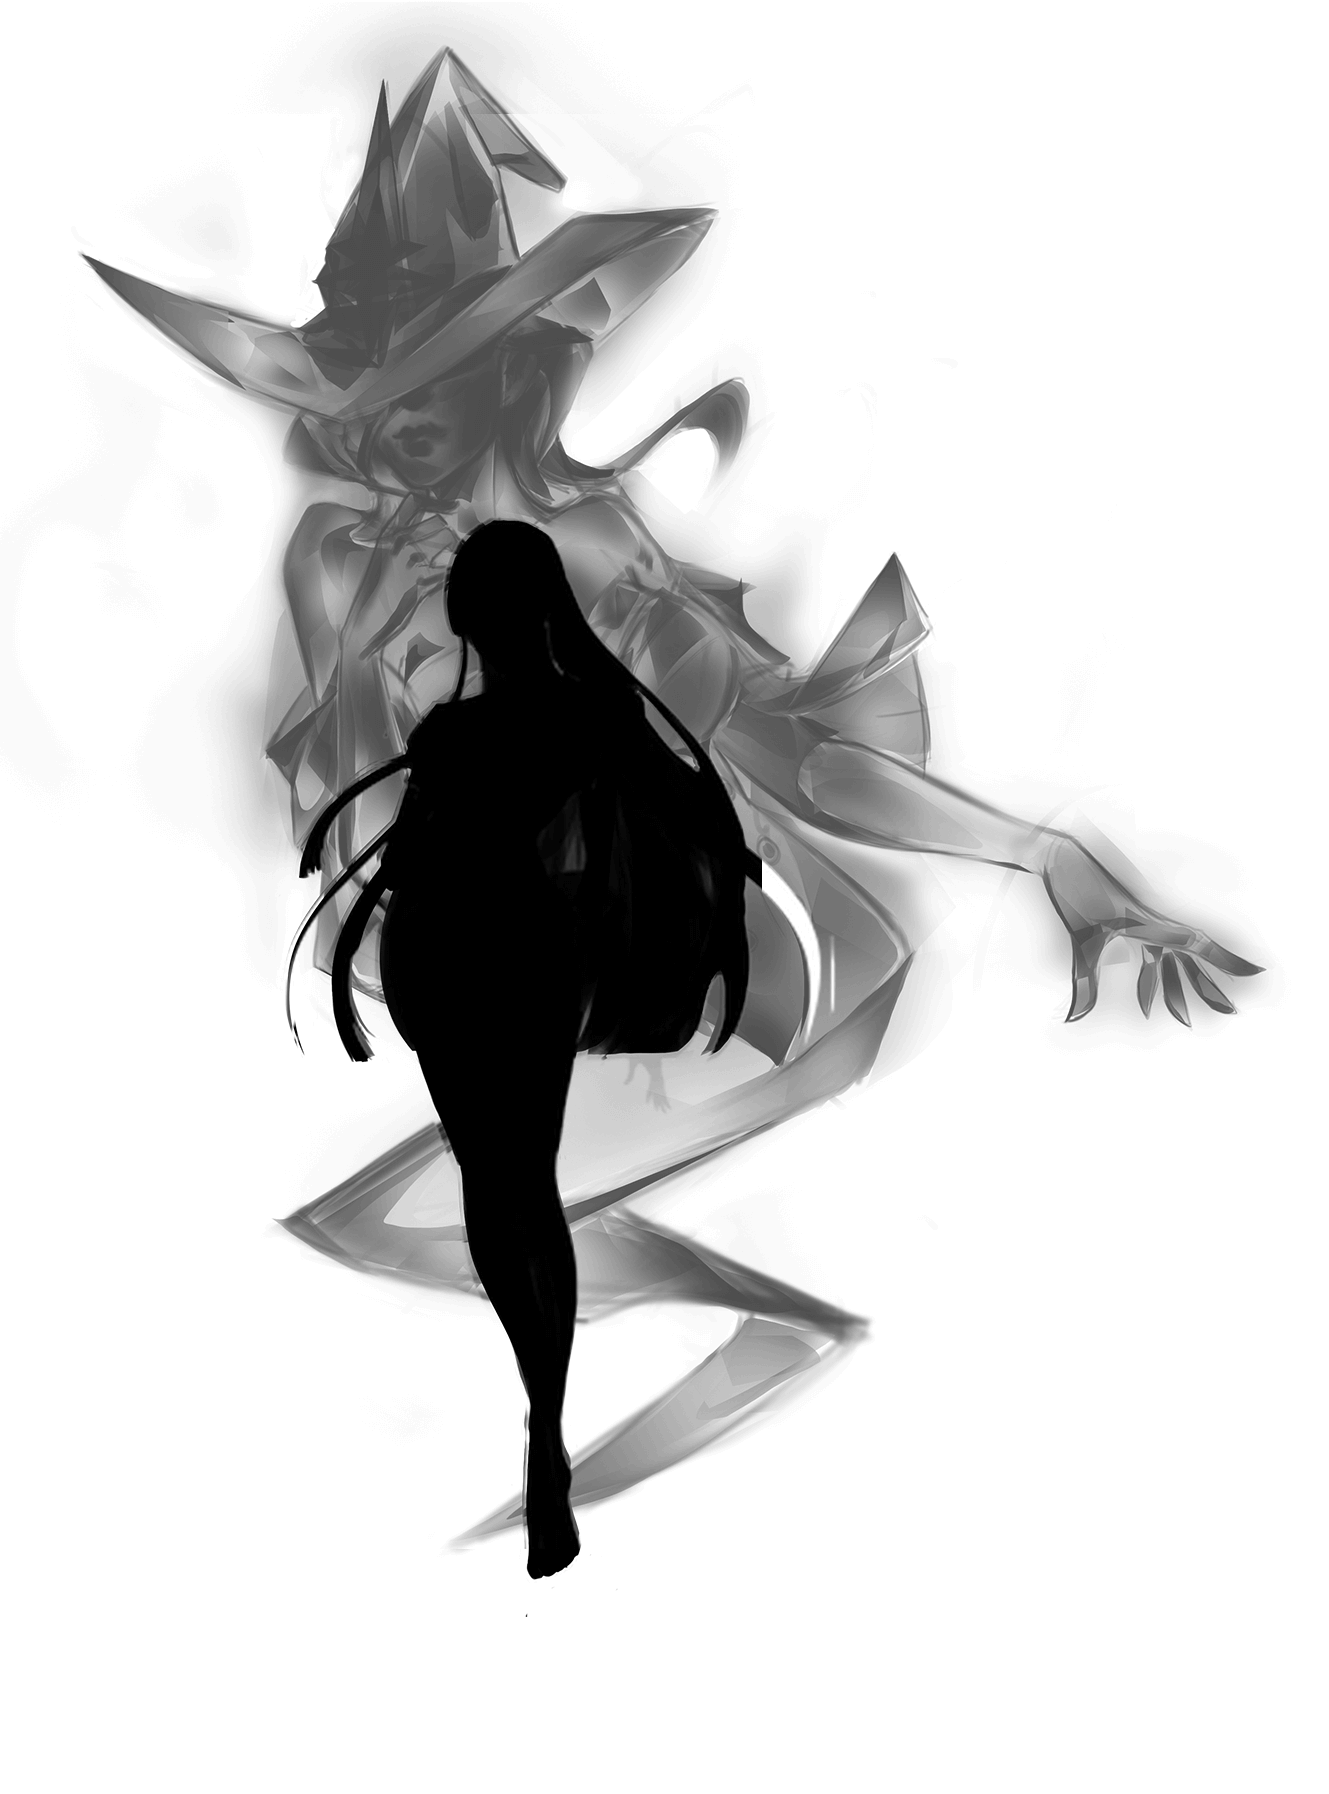
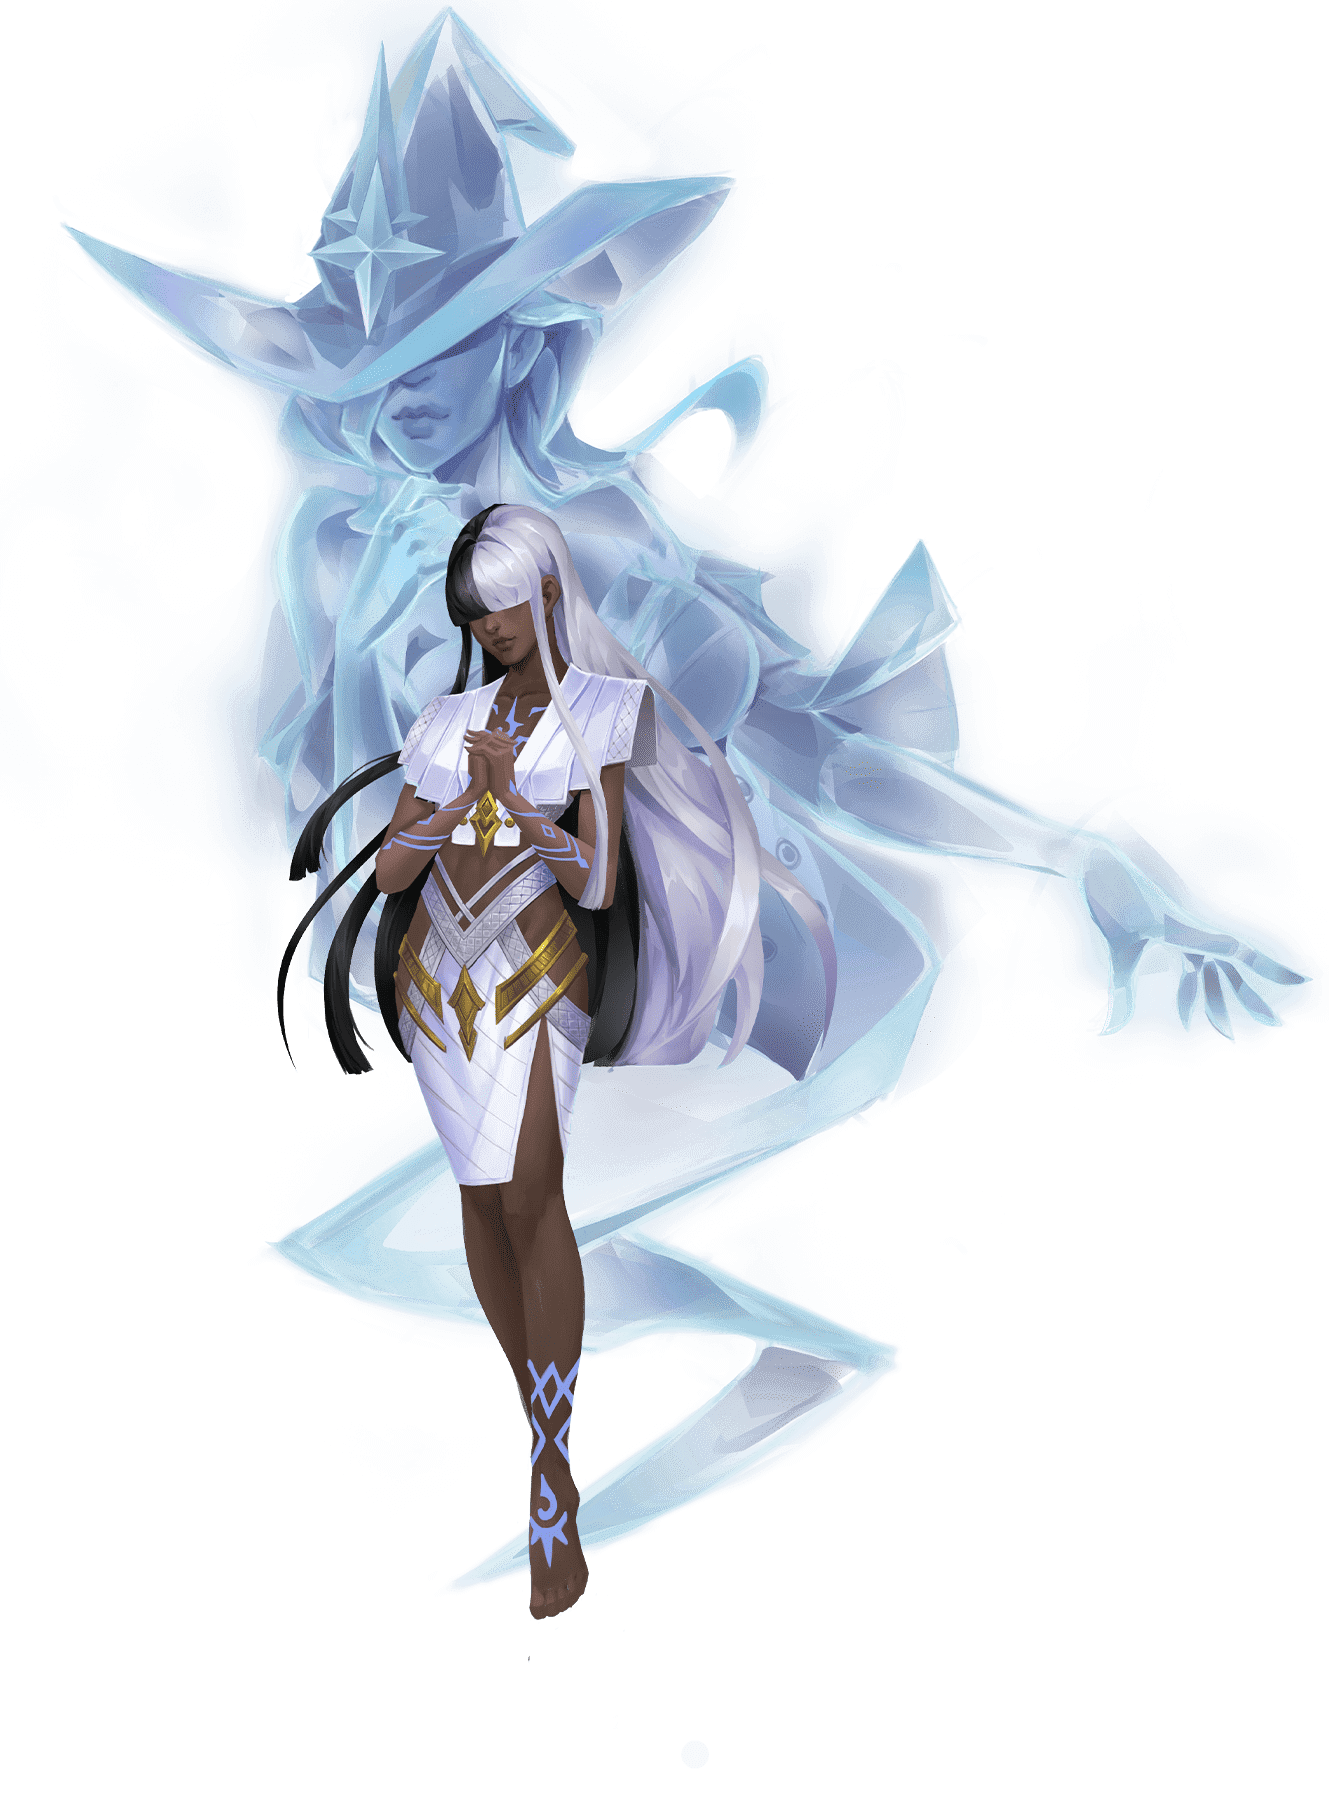
feat: image replace.

Changed region(s): [[0.0617, 0.0, 0.9872, 0.9052]]

diff --git a/src/pages/components/home/RaceSlide.tsx b/src/pages/components/home/RaceSlide.tsx
@@ -8,7 +8,7 @@ interface Props {
 export default function RaceSlide(props: Props) {
   return (
     <div className="bg-race w-full h-screen relative flex justify-center items-center">
-      <Image className="object-cover" src="/img/bg_home_swiper_race.png" alt="" fill sizes="100%"></Image>
+      <Image className="object-cover" src="/img/bg_home_swiper_race.jpg" alt="" fill sizes="100%"></Image>
 
       <div className="absolute left-0 top-0 w-full h-full bg-black/40"></div>
 

diff --git a/src/pages/components/home/SwiperScreen/index.tsx b/src/pages/components/home/SwiperScreen/index.tsx
@@ -17,7 +17,7 @@ export default function SwiperScreen() {
   return (
     <div className="swiper-screen w-full h-screen overflow-hidden z-20 relative ">
       <Swiper
-        modules={[Pagination, Navigation]}
+        modules={[Pagination, Autoplay, Navigation]}
         className="w-full h-full"
         loop
         // 视频10s自动切换，图片5s自动切换
